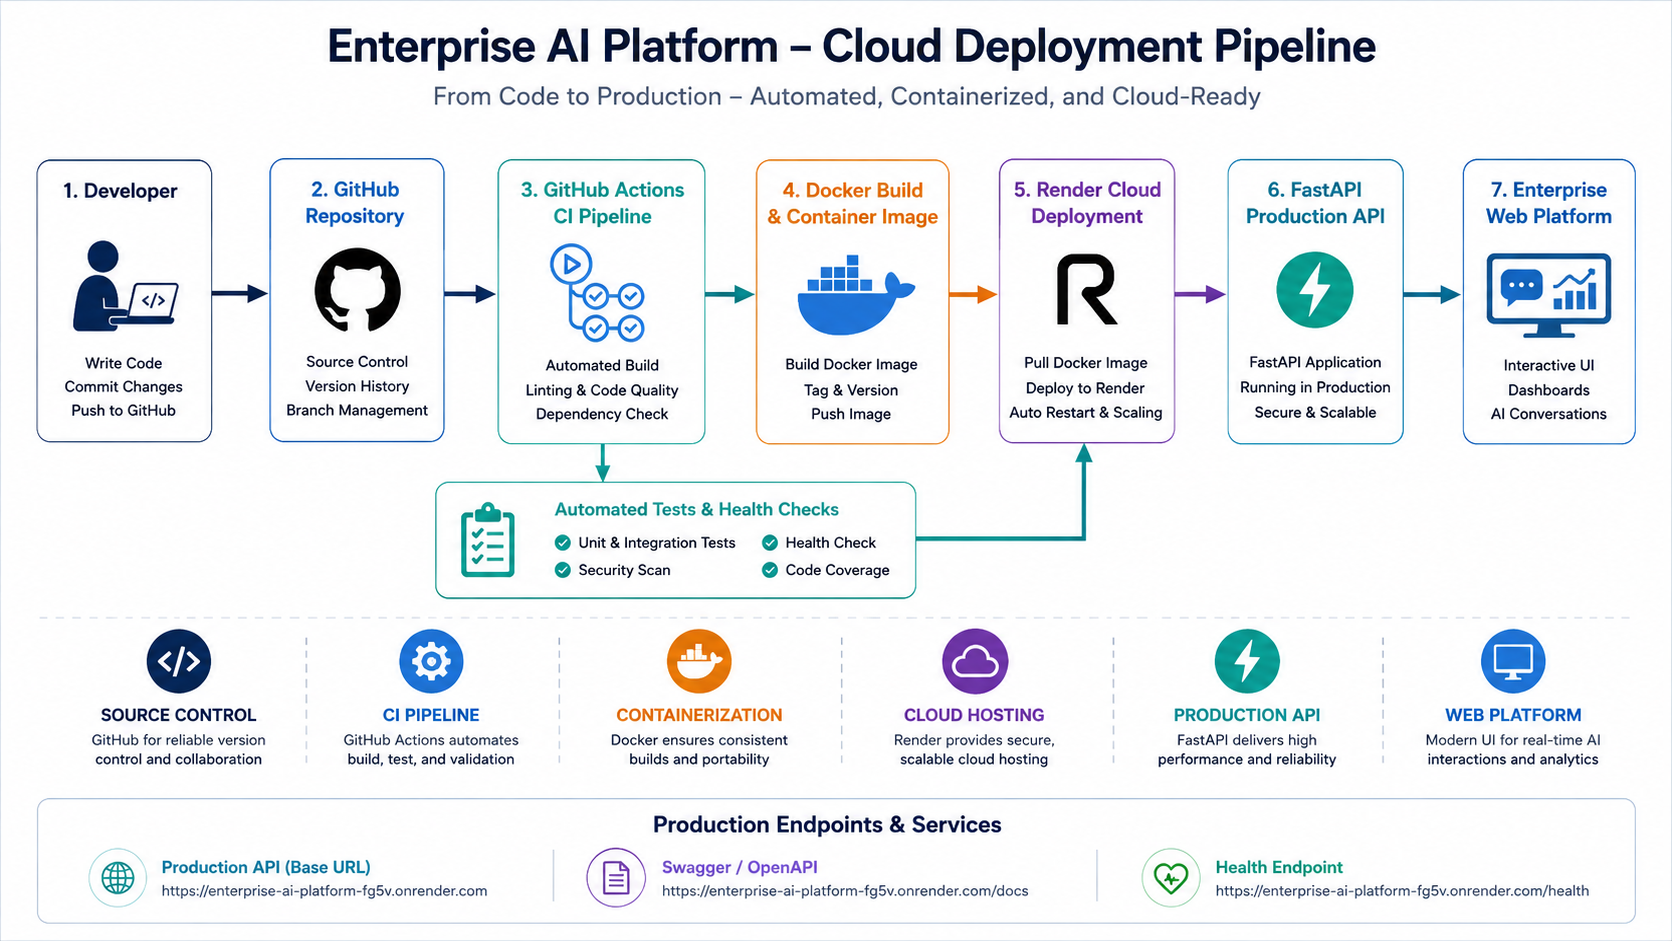
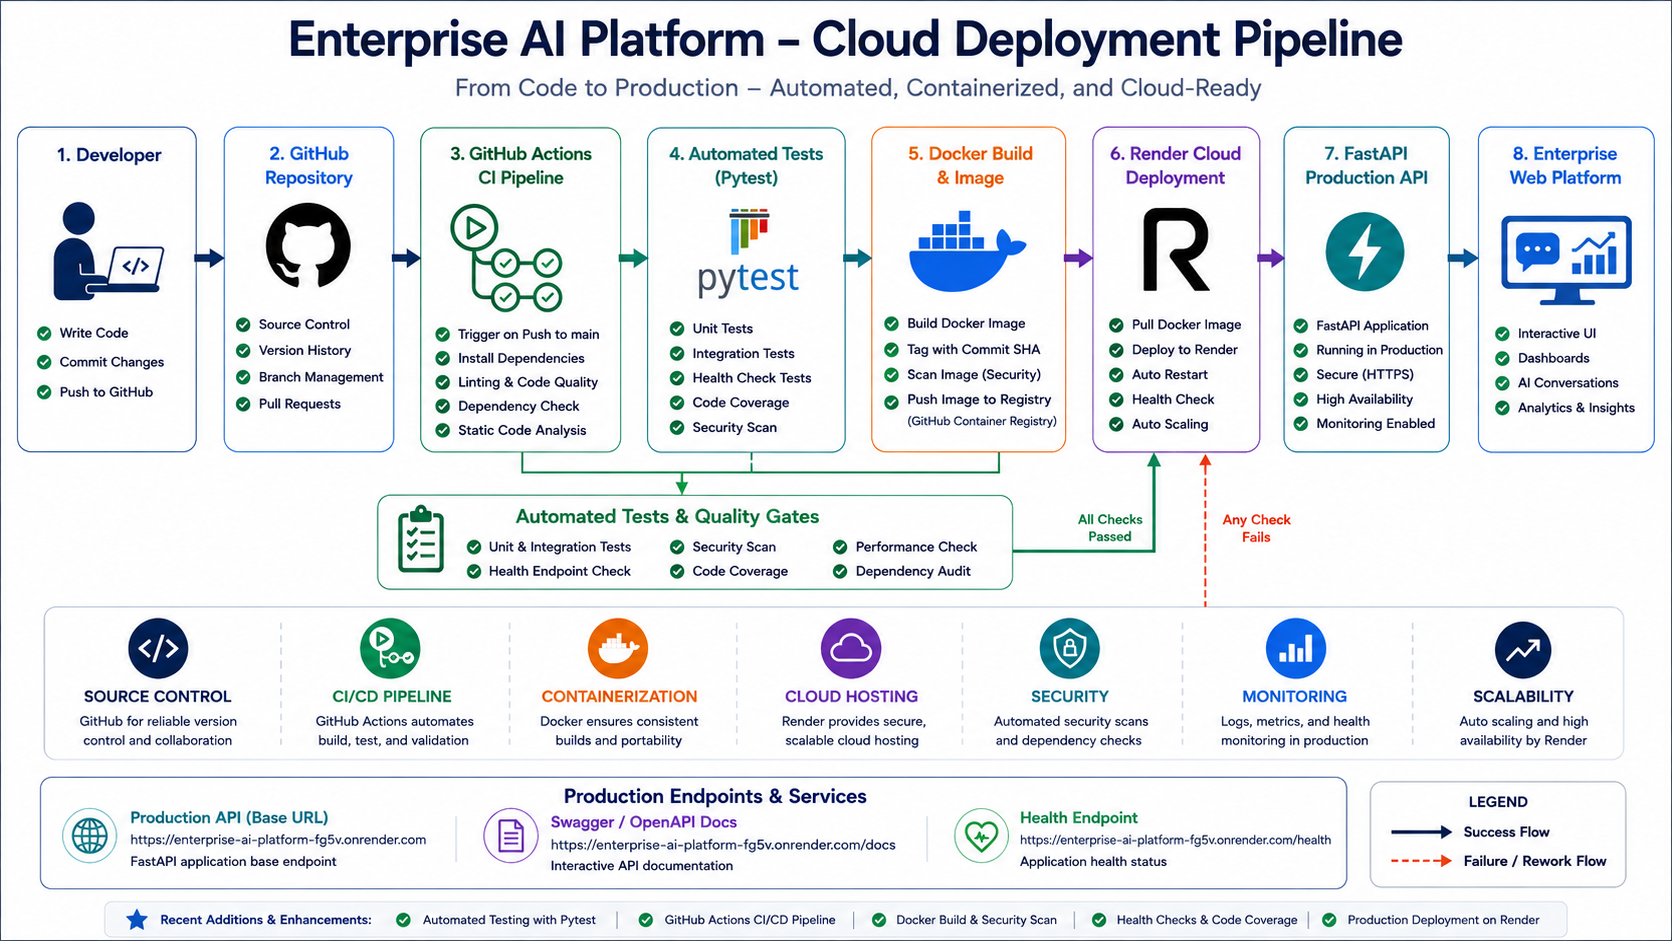
Release Enterprise AI Platform v2.0 with CI/CD and automated testing

Changed region(s): [[0.0, 0.0, 1.0, 1.0], [0.7153, 0.5239, 0.7775, 0.5855], [0.933, 0.9862, 0.9641, 1.0]]

diff --git a/README.md b/README.md
@@ -12,10 +12,17 @@
 ![Render](https://img.shields.io/badge/Cloud-Render-46E3B7)
 ![GitHub Actions](https://img.shields.io/badge/CI%2FCD-GitHub%20Actions-2088FF?logo=githubactions)
 ![License](https://img.shields.io/badge/License-MIT-green)
+![GitHub Actions](https://github.com/aramradif/Enterprise-AI-Platform/actions/workflows/ci.yml/badge.svg)
 
-**Enterprise AI Platform** is a production-ready AI application demonstrating modern enterprise AI engineering using **Retrieval-Augmented Generation (RAG)**, **FastAPI**, **OpenAI**, **ChromaDB**, **Docker**, **GitHub Actions**, and **Render**.
+## Overview
 
-It showcases hybrid retrieval, conversation memory, streaming responses, enterprise observability, evaluation metrics, and cloud deployment using a scalable modular architecture.
+**Enterprise AI Platform** is a production-ready Retrieval-Augmented Generation (RAG) application built with **FastAPI**, **OpenAI GPT-4o-mini**, **ChromaDB**, **Docker**, **GitHub Actions**, and **Render Cloud**.
+
+The platform combines hybrid retrieval, conversation memory, AI-generated conversation summaries, streaming responses, evaluation metrics, logging & observability, automated testing with **Pytest**, and a fully automated **GitHub Actions CI/CD** pipeline for reliable cloud deployment.
+
+Every push to the `main` branch automatically validates the FastAPI application, executes automated tests, builds the Docker image, and deploys the latest version to Render Cloud after all quality checks pass.
+
+---
 
 ###  Live Demo
 
@@ -132,8 +139,9 @@ Key capabilities include:
 - RESTful FastAPI API
 - Interactive Enterprise Web Interface
 - Docker Containerization
-- GitHub Actions CI Pipeline
-- Cloud Deployment on Render
+- Automated Testing (Pytest)
+- GitHub Actions CI/CD Pipeline
+- Automated Render Deployment
 
 The project follows a modular enterprise architecture designed for scalability, maintainability, and production deployment while showcasing real-world AI engineering workflows.
 
@@ -304,6 +312,22 @@ Analyze request history and system activity through centralized logging. The das
 
 The Enterprise AI Platform has evolved from a Retrieval-Augmented Generation (RAG) prototype into a production-ready enterprise AI application featuring cloud deployment, observability, conversation management, and a modern web platform.
 
+Status:
+
+✔ Production Ready
+
+✔ Dockerized
+
+✔ CI/CD Enabled
+
+✔ Cloud Deployed
+
+✔ Automated Testing
+
+✔ Enterprise Architecture
+
+✔ Observability & Evaluation
+
 ---
 
 ## Latest Release (v2.0)
@@ -323,7 +347,7 @@ The Enterprise AI Platform has evolved from a Retrieval-Augmented Generation (RA
 - Session Lifecycle API
 - Production Health Endpoint
 - Docker Containerization
-- GitHub Actions CI Pipeline
+- GitHub Actions CI/CD Pipeline
 - Cloud Deployment on Render
 
 ---
@@ -410,8 +434,9 @@ The Enterprise AI Platform has evolved from a Retrieval-Augmented Generation (RA
 ## DevOps & Deployment
 
 - Docker Containerization
-- GitHub Actions CI Pipeline
-- Cloud Deployment on Render
+- GitHub Actions CI/CD
+- Automated Testing with Pytest
+- Automated Deployment to Render Cloud
 - Environment Variable Management
 - Production Health Checks
 
@@ -424,6 +449,21 @@ The Enterprise AI Platform has evolved from a Retrieval-Augmented Generation (RA
 - Configuration-Based Design
 - Extensible Project Structure
 - Production-Ready Codebase
+
+---
+
+# Automated CI/CD Pipeline
+
+Every push to the `main` branch automatically executes the following workflow:
+
+1. Install project dependencies
+2. Validate Python source code
+3. Verify FastAPI application startup
+4. Execute automated Pytest tests
+5. Build the Docker container image
+6. Trigger automated deployment to Render Cloud
+
+Deployment occurs only after all validation and automated tests pass successfully.
 
 ---
 
@@ -473,9 +513,10 @@ The Enterprise AI Platform has evolved from a Retrieval-Augmented Generation (RA
 
 ## DevOps & Deployment
 
-- Docker
 - GitHub Actions
-- Render
+- Pytest
+- Docker
+- Render Cloud
 
 ---
 
@@ -681,7 +722,7 @@ The Enterprise AI Platform is being developed incrementally with a focus on prod
 ### DevOps & Deployment
 
 - Docker Containerization
-- GitHub Actions CI Pipeline
+- GitHub Actions CI/CD Pipeline
 - Render Cloud Deployment
 - Production Health Endpoint
 
